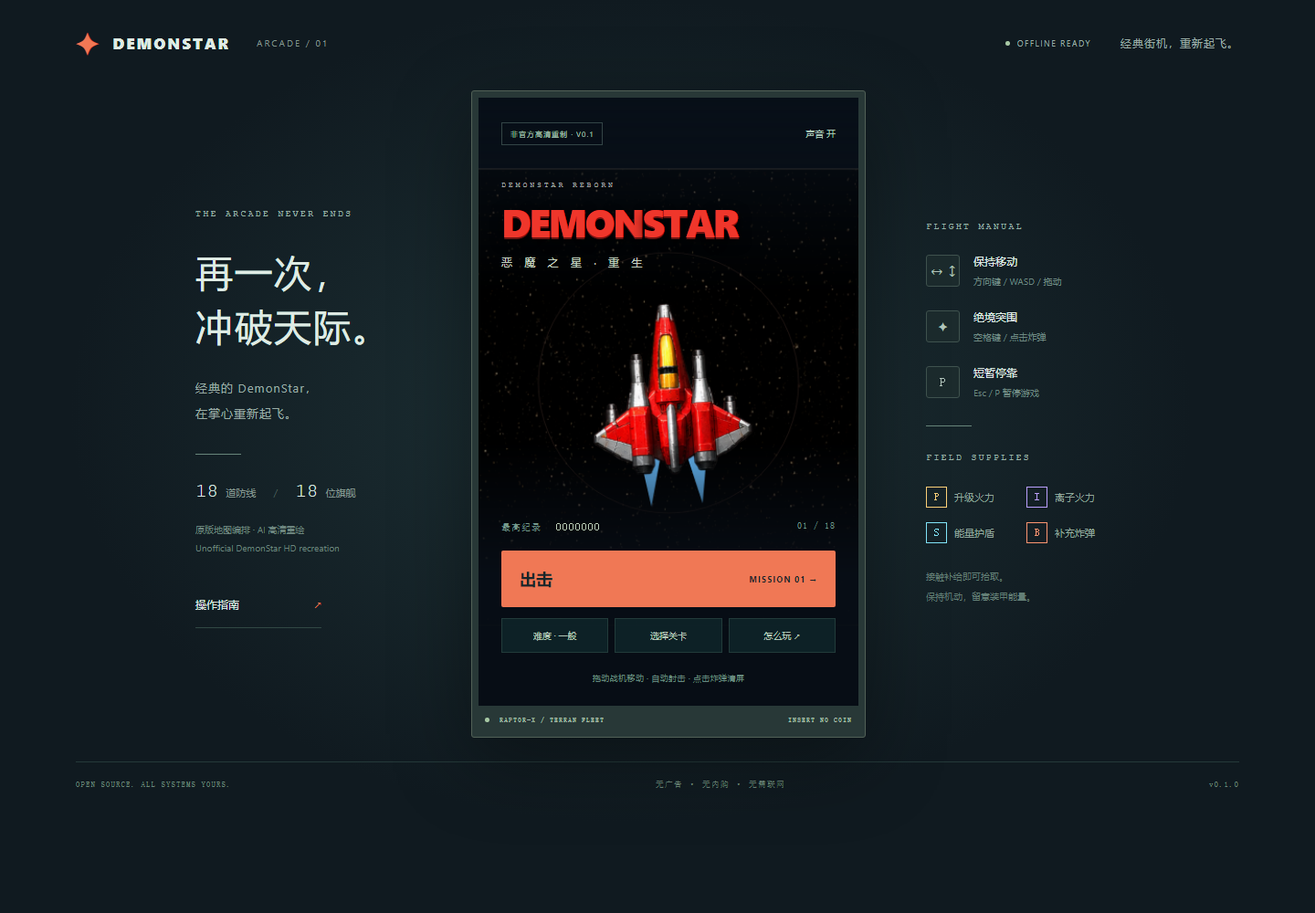
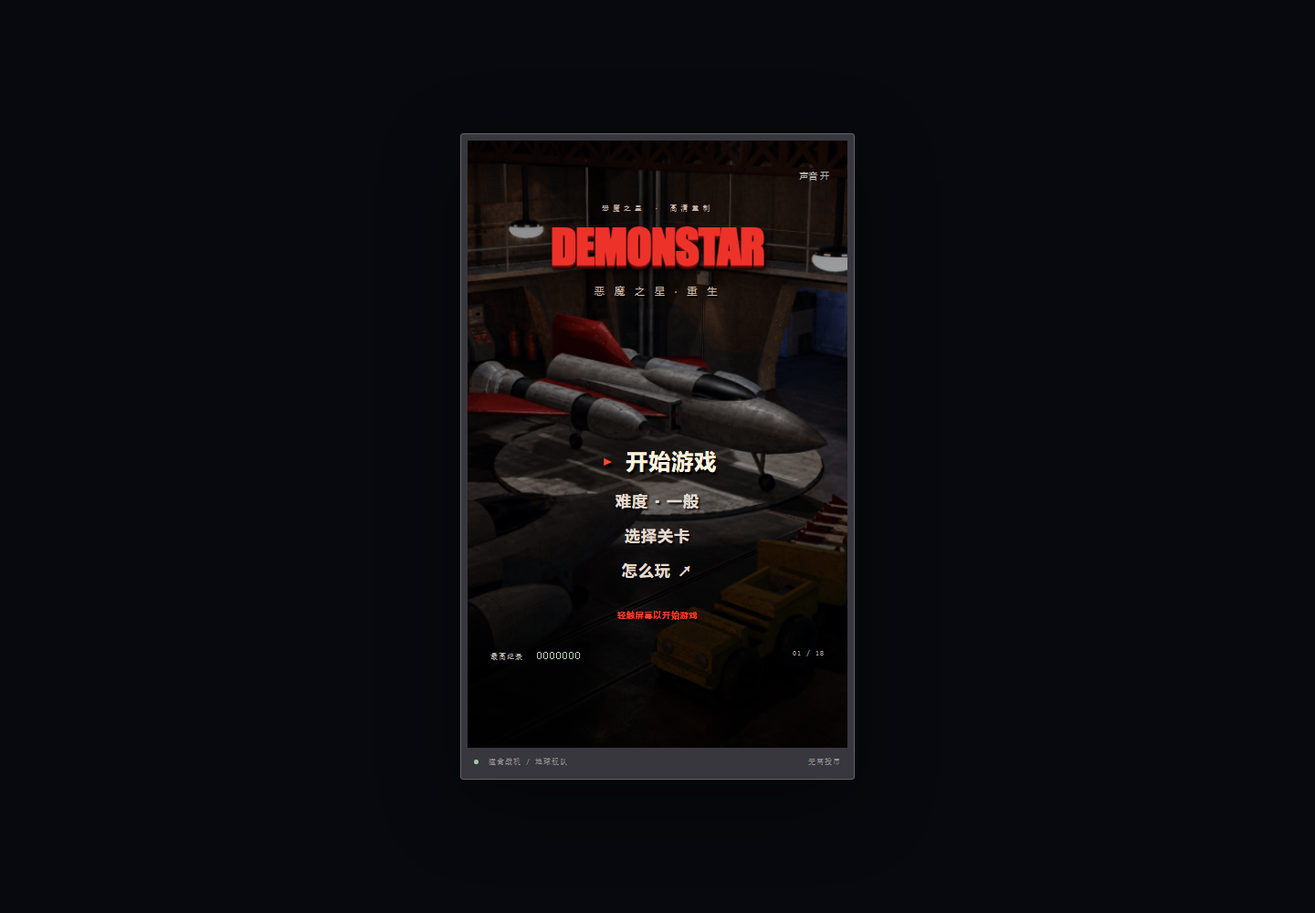
feat: restore Chinese hangar menu and original weapon presentation

diff --git a/web/js/app.js b/web/js/app.js
@@ -4,7 +4,7 @@
   const $ = id => document.getElementById(id);
   const { Game, DIFFICULTIES, STAGES, WEAPONS, W, H, clamp } = StarfallCore;
   const game=new Game(), renderer=new StarfallRenderer($('game')), audio=new StarfallAudio();
-  let saved={best:[0,0,0,0],unlocked:[1,1,1,1],difficulty:1,sound:true,music:true};
+  let saved={best:[0,0,0,0],unlocked:[1,1,1,1],difficulty:1,sound:true,music:false};
   try { const s=JSON.parse(localStorage.getItem('demonstar-reborn-v1')||'null'); if(s && typeof s==='object'){
     saved.best=Array.from({length:4},(_,i)=>Math.max(0,Math.floor(Number(s.best?.[i])||0)));
     saved.unlocked=Array.from({length:4},(_,i)=>clamp(Math.floor(Number(s.unlocked?.[i])||1),1,18));
@@ -14,7 +14,7 @@
   const keys=new Set(); audio.enabled=saved.sound;audio.music=saved.music;
   const persist=()=>{try{localStorage.setItem('demonstar-reborn-v1',JSON.stringify(saved));}catch{}};
   const fmt=n=>String(Math.floor(n)).padStart(7,'0');
-  function menuInfo(){ $('best').textContent=fmt(saved.best[saved.difficulty]);$('difficulty').textContent=`难度 · ${DIFFICULTIES[saved.difficulty].name}`;$('unlock-label').textContent=`${String(saved.unlocked[saved.difficulty]).padStart(2,'0')} / 18`;$('sound').textContent=`声音 ${saved.sound?'开':'关'}`;$('sound').setAttribute('aria-pressed',String(saved.sound));$('start').innerHTML=`出击 <span>MISSION ${String(selectedStage).padStart(2,'0')} →</span>`; }
+  function menuInfo(){ $('best').textContent=fmt(saved.best[saved.difficulty]);$('difficulty').textContent=`难度 · ${DIFFICULTIES[saved.difficulty].name}`;$('unlock-label').textContent=`${String(saved.unlocked[saved.difficulty]).padStart(2,'0')} / 18`;$('sound').textContent=`声音 ${saved.sound?'开':'关'}`;$('sound').setAttribute('aria-pressed',String(saved.sound));$('start').innerHTML=`开始游戏 <span>关卡 ${String(selectedStage).padStart(2,'0')} →</span>`; }
   function saveScore(){if(game.score>saved.best[game.difficulty]){saved.best[game.difficulty]=game.score;persist();}}
   function clearInput(){keys.clear();pointer=null;}
   function toast(text,seconds=2){$('toast').textContent=text;$('toast').hidden=false;toastTime=seconds;}
@@ -26,13 +26,13 @@
     $('dialog').hidden=false;requestAnimationFrame(()=>$('dialog-buttons').querySelector('button')?.focus({preventScroll:true}));
   }
   function resume(){game.resume();$('dialog').hidden=true;previous=0;accumulator=0;clearInput();audio.unlock();}
-  function pause(){if(!game.pause())return;saveScore();dialog('FLIGHT ON HOLD','暂时停靠',`<p>战机已悬停。准备好了就继续。</p><div class="dialog-setting">背景音乐 <button class="secondary" id="music-toggle">${saved.music?'开启':'关闭'}</button></div>`,[['继续飞行',resume],['返回主菜单',()=>dialog('ABANDON MISSION','结束本次飞行？','<p>最高分与已解锁关卡会保留，本次战斗进度将结束。</p>',[['继续飞行',resume],['结束并返回',showMenu,true]]),true]]);$('music-toggle').onclick=()=>{saved.music=!saved.music;audio.music=saved.music;$('music-toggle').textContent=saved.music?'开启':'关闭';persist();};}
+  function pause(){if(!game.pause())return;saveScore();dialog('游戏已暂停','暂时停靠',`<p>战机已悬停。准备好了就继续。</p><div class="dialog-setting">背景音乐 <button class="secondary" id="music-toggle">${saved.music?'开启':'关闭'}</button></div>`,[['继续飞行',resume],['返回主菜单',()=>dialog('返回主菜单','结束本次飞行？','<p>最高分与已解锁关卡会保留，本次战斗进度将结束。</p>',[['继续飞行',resume],['结束并返回',showMenu,true]]),true]]);$('music-toggle').onclick=()=>{saved.music=!saved.music;audio.music=saved.music;$('music-toggle').textContent=saved.music?'开启':'关闭';persist();};}
   function showHelp(){
     dialogReturn=game.phase==='playing'?'playing':game.phase;if(dialogReturn==='playing')game.pause();
-    dialog('FLIGHT MANUAL','飞行指南','<ul class="guide"><li><b>移动</b>　单指拖动战场；电脑使用 WASD 或方向键。战机会自动开火。</li><li><b>炸弹</b>　点击右下角 ✦ 或按空格。清除弹幕并对 Boss 造成伤害。</li><li><b>补给</b>　P 升级火力，I 离子火力，S 护盾，B 炸弹，＋ 增加生命。接触补给拾取。</li><li><b>躲避</b>　避开敌机与弹幕，装甲耗尽会损失生命并重置火力。</li><li><b>暂停</b>　点击 Ⅱ 或按 Esc / P。切到后台会自动暂停。</li></ul><p class="dialog-footer">原作 18 关地图 · 4 档难度 · 离线存档<br>非官方 DemonStar 同人重制 · v0.1.0</p>',[['准备起飞',()=>{if(dialogReturn==='playing')resume();else $('dialog').hidden=true;}]]);
+    dialog('游戏说明','飞行指南','<ul class="guide"><li><b>移动</b>　单指拖动战场；<span class="keyboard-help">电脑使用 WASD 或方向键。</span>战机会自动开火。</li><li><b>炸弹</b>　点击右下角 ✦ <span class="keyboard-help">或按空格。</span>清除弹幕并对 Boss 造成伤害。</li><li><b>补给</b>　P 升级火力，I 离子火力，S 护盾，B 炸弹，＋ 增加生命。接触补给拾取。</li><li><b>躲避</b>　避开敌机与弹幕，装甲耗尽会损失生命并重置火力。</li><li><b>暂停</b>　点击 Ⅱ <span class="keyboard-help">或按 Esc / P。</span>切到后台会自动暂停。</li></ul><p class="dialog-footer">原作 18 关地图 · 4 档难度 · 离线存档<br>非官方 DemonStar 同人重制 · v0.1.0</p>',[['准备起飞',()=>{if(dialogReturn==='playing')resume();else $('dialog').hidden=true;}]]);
   }
   function showMissions(){
-    dialog('CAMPAIGN SELECT','选择出击点',`<div class="mission-grid">${STAGES.map(s=>`<button data-stage="${s.id}" ${s.id>saved.unlocked[saved.difficulty]?'disabled':''}>${String(s.id).padStart(2,'0')}<small>${s.name}</small></button>`).join('')}</div><p class="dialog-footer">通过上一关即可解锁。各难度单独保存进度。</p>`,[['返回机库',()=>{$('dialog').hidden=true;},true]]);
+    dialog('原版战役','选择出击点',`<div class="mission-grid">${STAGES.map(s=>`<button data-stage="${s.id}" ${s.id>saved.unlocked[saved.difficulty]?'disabled':''}>${String(s.id).padStart(2,'0')}<small>${s.name}</small></button>`).join('')}</div><p class="dialog-footer">通过上一关即可解锁。各难度单独保存进度。</p>`,[['返回机库',()=>{$('dialog').hidden=true;},true]]);
     document.querySelectorAll('[data-stage]').forEach(b=>b.onclick=()=>{selectedStage=Number(b.dataset.stage);$('dialog').hidden=true;menuInfo();});
   }
   function results(){
@@ -42,13 +42,13 @@
     const content=`<div class="result-score">${fmt(game.score)}</div><div class="stat-row">击落敌机<b>${game.kills}</b></div><div class="stat-row">命中率<b>${accuracy}%</b></div><div class="stat-row">飞行时间<b>${Math.floor(game.totalTime/60)}:${String(Math.floor(game.totalTime%60)).padStart(2,'0')}</b></div><div class="stat-row">当前关卡<b>${game.stage.id} / 18</b></div>`;
     const actions=game.phase==='cleared'?[['下一关 →',()=>{game.nextStage();$('dialog').hidden=true;lastPhase='playing';updateHud();}]]:[['再次出击',()=>start(game.phase==='victory'?1:game.stage.id)]];
     actions.push(['返回机库',showMenu,true]);
-    dialog(won?'MISSION COMPLETE':'FLIGHT REPORT',game.phase==='victory'?'星海已重获自由':won?'防线已突破':'任务结束',content,actions);
+    dialog(won?'任务完成':'战斗记录',game.phase==='victory'?'星海已重获自由':won?'防线已突破':'任务结束',content,actions);
   }
   function updateHud(){
     if(!game.player)return;
-    const p=game.player;$('score').textContent=fmt(game.score);$('lives').textContent='◆ '.repeat(p.lives).trim();$('lives').setAttribute('aria-label',`剩余 ${p.lives} 条生命`);$('stage-label').textContent=`MISSION ${String(game.stage.id).padStart(2,'0')}`;
-    $('weapon').textContent=`${WEAPONS[p.weapon]} · LV.${p.power}`;$('shield-label').textContent=`装甲 ${Math.ceil(p.energy)} / ${p.maxEnergy}${p.shield>0?' · 护盾':''}`;$('bomb-count').textContent=String(p.bombs).padStart(2,'0');$('bomb').disabled=p.bombs<=0;
-    $('progress').style.width=`${Math.min(100,game.elapsed/game.stage.duration*100)}%`;$('combo').textContent=game.combo>=5?`${game.combo} CHAIN · ×${1+Math.floor(game.combo/10)}`:'';
+    const p=game.player;$('score').textContent=fmt(game.score);$('lives').textContent='◆ '.repeat(p.lives).trim();$('lives').setAttribute('aria-label',`剩余 ${p.lives} 条生命`);$('stage-label').textContent=`关卡 ${String(game.stage.id).padStart(2,'0')}`;
+    $('weapon').textContent=`${WEAPONS[p.weapon]} · ${p.power} 级`;$('shield-label').textContent=`装甲 ${Math.ceil(p.energy)} / ${p.maxEnergy}${p.shield>0?' · 护盾':''}`;$('bomb-count').textContent=String(p.bombs).padStart(2,'0');$('bomb').disabled=p.bombs<=0;
+    $('progress').style.width=`${Math.min(100,game.elapsed/game.stage.duration*100)}%`;$('combo').textContent=game.combo>=5?`${game.combo} 连击 · ×${1+Math.floor(game.combo/10)}`:'';
     $('boss-hud').hidden=!game.boss;if(game.boss){$('boss-name').textContent=game.stage.boss;$('boss-health').style.width=`${Math.max(0,game.boss.hp/game.boss.maxHp*100)}%`;}
   }
   function frame(t){
@@ -60,8 +60,8 @@
       audio.update(dt,game.phase==='playing');
     }else accumulator=0;
     for(const e of game.drainEvents()){
-      audio.effect(e.type);
-      if(e.type==='stage')toast(`MISSION ${String(e.stage).padStart(2,'0')} · ${game.stage.name}`);
+      audio.effect(e.type,e);
+      if(e.type==='stage')toast(`进入第 ${String(e.stage).padStart(2,'0')} 关`);
       if(e.type==='boss')toast(`警报 · ${e.name}`,2.8);
       if(e.type==='pickup')toast({power:'火力升级',weapon:'质子武器',ion:'离子炮',plasma:'等离子炮',magnetic:'磁力脉冲',energy:'装甲修复',full:'火力全满',shield:'能量护盾',bomb:'超级炸弹',scatter:'散射炸弹',mega:'超级脉冲',missile:'导弹补给',homing:'追踪导弹',side:'侧向火力',rear:'后向火力',medal:'勋章 +1000',life:'备用战机 +1'}[e.item]||'获得补给',1);
     }
@@ -78,10 +78,12 @@
   });
   $('screen').addEventListener('pointermove',e=>{if(!pointer||pointer.id!==e.pointerId||game.phase!=='playing')return;const rect=$('screen').getBoundingClientRect();game.move((e.clientX-pointer.x)*W/rect.width,(e.clientY-pointer.y)*640/rect.height);pointer.x=e.clientX;pointer.y=e.clientY;e.preventDefault();});
   for(const event of ['pointerup','pointercancel','lostpointercapture'])$('screen').addEventListener(event,e=>{if(pointer?.id===e.pointerId)pointer=null;});
+  $('screen').addEventListener('pointerup',e=>{if(game.phase==='menu'&&$('dialog').hidden&&!$('menu').hidden&&!e.target.closest('button'))start();});
   window.addEventListener('keydown',e=>{
     const key=e.key.length===1?e.key.toLowerCase():e.key;
     if(['ArrowLeft','ArrowRight','ArrowUp','ArrowDown',' '].includes(key)&&game.phase==='playing')e.preventDefault();
     if(e.repeat)return;
+    if(key==='Enter'&&game.phase==='menu'&&$('dialog').hidden){e.preventDefault();start();return;}
     if(key==='Escape'||key==='p'){if(game.phase==='playing')pause();else if(game.phase==='paused')resume();else if(!$('dialog').hidden)$('dialog').hidden=true;return;}
     if(key===' '&&game.phase==='playing'){game.useBomb();return;}keys.add(key);
   });
@@ -90,5 +92,6 @@
   document.addEventListener('visibilitychange',()=>{if(document.hidden)background();else previous=0;});window.addEventListener('blur',background);
   window.addEventListener('pagehide',()=>{saveScore();background();});
   globalThis.StarfallApp={game,background,back:()=>{if(game.phase==='playing')pause();else if(game.phase==='paused')resume();else if(!$('dialog').hidden)$('dialog').hidden=true;},start,showMenu,renderer};
+  document.addEventListener('click',e=>{if(e.target.closest('button')&&saved.sound){audio.unlock();audio.effect('menu');}});
   menuInfo();requestAnimationFrame(frame);
 })();

diff --git a/web/index.html b/web/index.html
@@ -9,34 +9,35 @@
   <link rel="icon" type="image/svg+xml" href="icon.svg">
   <link rel="stylesheet" href="style.css">
   <link rel="stylesheet" href="remaster.css">
+  <link rel="stylesheet" href="classic-menu.css">
 </head>
 <body>
-  <div class="desktop-header"><a class="wordmark" href="./"><span class="mark">✦</span> DEMONSTAR <span class="edition">ARCADE / 01</span></a><span class="header-note"><i></i> OFFLINE READY <span>经典街机，重新起飞。</span></span></div>
+  <div class="desktop-header"><a class="wordmark" href="./"><span class="mark">✦</span> DEMONSTAR <span class="edition">街机复刻 / 01</span></a><span class="header-note"><i></i> 离线就绪 <span>经典街机，重新起飞。</span></span></div>
   <main class="layout">
-    <aside class="intro"><p class="eyebrow">THE ARCADE NEVER ENDS</p><h1>再一次，<br>冲破天际。</h1><p class="intro-copy">经典的 DemonStar，<br>在掌心重新起飞。</p><div class="intro-line"></div><p class="spec"><b>18</b> 道防线 <span>／</span> <b>18</b> 位旗舰</p><p class="small">原版地图编排 · AI 高清重绘<br>Unofficial DemonStar HD recreation</p><button class="text-button" id="desktop-help">操作指南 <span>↗</span></button></aside>
+    <aside class="intro"><p class="eyebrow">经典从未落幕</p><h1>再一次，<br>冲破天际。</h1><p class="intro-copy">经典的 DemonStar，<br>在掌心重新起飞。</p><div class="intro-line"></div><p class="spec"><b>18</b> 道防线 <span>／</span> <b>18</b> 位旗舰</p><p class="small">原版地图编排 · AI 高清重绘<br>非官方恶魔之星高清重制</p><button class="text-button" id="desktop-help">操作指南 <span>↗</span></button></aside>
     <section class="cabinet" aria-label="恶魔之星重生游戏">
       <div class="screen" id="screen">
         <canvas id="game" aria-label="飞行战场，拖动移动战机" role="img"></canvas>
         <div id="hud" class="hud" hidden>
-          <div class="hud-top"><div><span class="tiny">SCORE</span><strong id="score">0000000</strong></div><div class="hud-center"><span id="stage-label">MISSION 01</span><span id="lives" aria-label="剩余生命">◆ ◆ ◆</span></div><button id="pause" class="icon-button" aria-label="暂停游戏">Ⅱ</button></div>
+          <div class="hud-top"><div><span class="tiny">得分</span><strong id="score">0000000</strong></div><div class="hud-center"><span id="stage-label">关卡 01</span><span id="lives" aria-label="剩余生命">◆ ◆ ◆</span></div><button id="pause" class="icon-button" aria-label="暂停游戏">Ⅱ</button></div>
           <div class="stage-track"><div id="progress"></div></div>
           <div id="boss-hud" hidden><span id="boss-name">铁翼守卫</span><div class="boss-track"><div id="boss-health"></div></div></div>
           <span id="combo" class="combo"></span>
         </div>
         <div id="menu" class="menu overlay">
           <div class="menu-top"><span class="pill">非官方高清重制 · V0.1</span><button id="sound" class="sound-button" aria-label="切换声音" aria-pressed="true">声音 开</button></div>
-          <div class="title"><span class="eyebrow">DEMONSTAR REBORN</span><h2>DEMON<span>STAR</span></h2><p>恶 魔 之 星 · 重 生</p></div>
-          <div class="menu-bottom"><div class="record"><span>最高纪录 <b id="best">0000000</b></span><span id="unlock-label">01 / 18</span></div><button id="start" class="primary">出击 <span>LAUNCH MISSION →</span></button><div class="menu-options"><button id="difficulty">难度 · 经典</button><button id="missions">选择关卡</button><button id="help">怎么玩 ↗</button></div><p class="menu-hint">拖动战机移动 · 自动射击 · 点击炸弹清屏</p></div>
+          <div class="title"><span class="eyebrow">恶魔之星 · 高清重制</span><h2>DEMON<span>STAR</span></h2><p>恶 魔 之 星 · 重 生</p></div>
+          <div class="menu-bottom"><div class="record"><span>最高纪录 <b id="best">0000000</b></span><span id="unlock-label">01 / 18</span></div><button id="start" class="primary">出击 <span>开始任务 →</span></button><div class="menu-options"><button id="difficulty">难度 · 经典</button><button id="missions">选择关卡</button><button id="help">怎么玩 ↗</button></div><p class="menu-hint">轻触屏幕以开始游戏</p></div>
         </div>
-        <div id="controls" class="controls" hidden><div><span class="tiny">WEAPON SYSTEM</span><strong id="weapon">脉冲炮 · LV.1</strong><small id="shield-label">核心已就绪</small></div><button id="bomb" aria-label="释放炸弹"><span class="bomb-symbol">✦</span><span>炸弹 <b id="bomb-count">03</b></span></button></div>
+        <div id="controls" class="controls" hidden><div><span class="tiny">武器系统</span><strong id="weapon">质子激光 · 1 级</strong><small id="shield-label">核心已就绪</small></div><button id="bomb" aria-label="释放炸弹"><span class="bomb-symbol">✦</span><span>炸弹 <b id="bomb-count">03</b></span></button></div>
         <div id="toast" class="toast" role="status" aria-live="polite" hidden></div>
         <section id="dialog" class="dialog overlay" aria-modal="true" role="dialog" aria-labelledby="dialog-title" hidden><div class="dialog-card"><p id="dialog-tag" class="eyebrow"></p><h2 id="dialog-title"></h2><div id="dialog-content"></div><div id="dialog-buttons"></div></div></section>
       </div>
-      <div class="cabinet-label"><span><i></i> RAPTOR-X / TERRAN FLEET</span><span>INSERT NO COIN</span></div>
+      <div class="cabinet-label"><span><i></i> 猛禽战机 / 地球舰队</span><span>无需投币</span></div>
     </section>
-    <aside class="telemetry"><p class="eyebrow">FLIGHT MANUAL</p><div class="manual-row"><kbd>↔ ↕</kbd><div><b>保持移动</b><span>方向键 / WASD / 拖动</span></div></div><div class="manual-row"><kbd>✦</kbd><div><b>绝境突围</b><span>空格键 / 点击炸弹</span></div></div><div class="manual-row"><kbd>P</kbd><div><b>短暂停靠</b><span>Esc / P 暂停游戏</span></div></div><div class="intro-line"></div><p class="eyebrow">FIELD SUPPLIES</p><div class="supply"><b class="gold">P</b><span>升级火力</span><b class="purple" >I</b><span>离子火力</span><b class="cyan">S</b><span>能量护盾</span><b class="orange">B</b><span>补充炸弹</span></div><p class="aside-note">接触补给即可拾取。<br>保持机动，留意装甲能量。</p></aside>
+    <aside class="telemetry"><p class="eyebrow">操作说明</p><div class="manual-row"><kbd>↔ ↕</kbd><div><b>保持移动</b><span>方向键 / WASD / 拖动</span></div></div><div class="manual-row"><kbd>✦</kbd><div><b>绝境突围</b><span>空格键 / 点击炸弹</span></div></div><div class="manual-row"><kbd>P</kbd><div><b>短暂停靠</b><span>Esc / P 暂停游戏</span></div></div><div class="intro-line"></div><p class="eyebrow">战场补给</p><div class="supply"><b class="gold">P</b><span>升级火力</span><b class="purple" >I</b><span>离子火力</span><b class="cyan">S</b><span>能量护盾</span><b class="orange">B</b><span>补充炸弹</span></div><p class="aside-note">接触补给即可拾取。<br>保持机动，留意装甲能量。</p></aside>
   </main>
-  <footer class="desktop-footer"><span>OPEN SOURCE. ALL SYSTEMS YOURS.</span><span>无广告 · 无内购 · 无需联网</span><span>v0.1.0</span></footer>
+  <footer class="desktop-footer"><span>游戏代码开放，欢迎共同完善。</span><span>无广告 · 无内购 · 无需联网</span><span>v0.1.0</span></footer>
   <script src="js/compat.js"></script><script src="js/campaign.js"></script><script src="js/original-rules.js"></script><script src="js/render-hd.js"></script><script src="js/audio.js"></script><script src="js/app.js"></script>
 </body>
 </html>

diff --git a/web/js/render-hd.js b/web/js/render-hd.js
@@ -4,11 +4,12 @@
   const VIEW_H=640,TOP=75;
   const load=src=>{const im=new Image();im.src=src;return im;};
   class Renderer {
-    constructor(canvas){this.canvas=canvas;this.c=canvas.getContext('2d',{alpha:false});this.time=0;this.ships=load('assets/ships-hd.png');this.bosses=load('assets/bosses-07-18-hd.png');this.terrain=[load('assets/terrain-01-06-hd.png'),load('assets/terrain-07-12-hd.png'),load('assets/terrain-13-18-hd.png')];const dpr=Math.min(devicePixelRatio||1,2);canvas.width=W*dpr;canvas.height=VIEW_H*dpr;this.c.scale(dpr,dpr);const r=rng(654);this.stars=Array.from({length:100},()=>[r()*W,r()*H,r()*1.3+.3]);}
+    constructor(canvas){this.canvas=canvas;this.c=canvas.getContext('2d',{alpha:false});this.time=0;this.ships=load('assets/ships-hd.png');this.bosses=load('assets/bosses-07-18-hd.png');this.hangar=load('assets/hangar-hd.png');this.mission1=load('assets/mission1-hd.png');this.weapons=load('assets/weapons-hd.png');this.terrain=[load('assets/terrain-01-06-hd.png'),load('assets/terrain-07-12-hd.png'),load('assets/terrain-13-18-hd.png')];this.mission1Names=['S_ENEMY14','S_ENEMY20','S_ENEMY21','S_ENEMY34A','S_ASTER1A','S_ASTER2A','S_ASTER3A','S_ENBON1','S_ENBON3','S_SPTNKRA','S_ENEMY22','S_ENEMY28A','S_PIPE1','S_PIPE2','S_PIPE3','S_BHOLE1A'];const dpr=Math.min(devicePixelRatio||1,2);canvas.width=W*dpr;canvas.height=VIEW_H*dpr;this.c.scale(dpr,dpr);const r=rng(654);this.stars=Array.from({length:100},()=>[r()*W,r()*H,r()*1.3+.3]);}
     cell(image,index,cols,rows,x,y,w,h,rotation=0){if(!image.complete||!image.naturalWidth)return false;const c=this.c,cw=image.naturalWidth/cols,ch=image.naturalHeight/rows;c.save();c.translate(x,y);if(rotation)c.rotate(rotation);c.drawImage(image,index%cols*cw,Math.floor(index/cols)*ch,cw,ch,-w/2,-h/2,w,h);c.restore();return true;}
     terrainDraw(stage,scroll){const c=this.c,idx=stage-1,im=this.terrain[Math.floor(idx/6)],cell=idx%6;if(im?.complete&&im.naturalWidth){const cw=im.naturalWidth/3,ch=im.naturalHeight/2,sy=Math.floor(cell/3)*ch,sx=cell%3*cw,y=scroll%H;c.drawImage(im,sx,sy,cw,ch,0,y-H,W,H);c.drawImage(im,sx,sy,cw,ch,0,y,W,H);}else{c.fillStyle='#010205';c.fillRect(0,0,W,H);for(const [x,y,s] of this.stars){c.fillStyle='#9aa293';c.globalAlpha=s*.4;c.fillRect(x,(y+scroll)%H,s,s);}c.globalAlpha=1;}}
     shipCell(name){if(name.startsWith('S_ENEMY1A'))return 2;if(name==='S_ENEMY2')return 3;if(name==='S_ENEMY4')return 4;if(name==='S_ENEMY10')return 5;if(name==='S_ENEMY18')return 6;if(name==='S_ENEMY21')return 7;if(name.startsWith('G_TNK')||name.includes('TURRET')||name.includes('TUR1'))return 14;if(name.includes('ROTA')||name.includes('ROTB'))return 15;const n=Number((name.match(/(?:ENEMY|SHIP)(\d+)/)||[])[1]||1);return [2,3,4,5,6,7][n%6];}
     object(e){const c=this.c,d=e.def,w=d.width,h=d.height;
+      const originalCell=this.mission1Names.indexOf(d.sprite);if(originalCell>=0&&this.cell(this.mission1,originalCell,4,4,e.x,e.y,w*1.1,h*1.1))return;
       if(e.scenery){this.scenery(e);return;}
       c.save();if(e.hit>0){c.globalAlpha=.65;}
       if(e.boss){const stage=Number(d.sprite.match(/^S2_BOSS(\d+)/)?.[1]||0);if(stage)this.cell(this.bosses,stage-1,4,3,e.x,e.y,w*1.13,h*1.13);else{const b=Number(d.sprite.match(/^S_BOSS(\d+)/)?.[1]||1);this.cell(this.ships,7+b,4,4,e.x,e.y,w*1.12,h*1.12);}}
@@ -20,13 +21,20 @@
     scenery(e){const c=this.c,d=e.def,x=e.x-d.width/2,y=e.y-d.height/2,w=d.width,h=d.height,n=d.sprite;if(n.includes('PIPE')){c.fillStyle='#434044';c.fillRect(x,y,w,h);c.fillStyle='#777278';c.fillRect(x+2,y+2,Math.max(2,w-4),Math.max(2,h-4));c.fillStyle='#35323a';for(let i=0;i<h;i+=8)c.fillRect(x,y+i,w,2);}else if(n.includes('HOLE')){const g=c.createRadialGradient(e.x,e.y,1,e.x,e.y,Math.max(w,h)/2);g.addColorStop(0,'#000');g.addColorStop(.6,'#05050a');g.addColorStop(.84,'#373467');g.addColorStop(1,'#08040b00');c.fillStyle=g;c.fillRect(x,y,w,h);}else if(n.includes('STREET')||n.includes('RUNWAY')||n.includes('RAIL')){c.fillStyle='#41444a';c.fillRect(x,y,w,h);c.strokeStyle='#717171';c.strokeRect(x+1,y+1,w-2,h-2);c.fillStyle='#a6a08f';for(let k=4;k<h;k+=17)c.fillRect(e.x-2,y+k,4,8);}else{c.fillStyle='#474a48';c.fillRect(x,y,w,h);c.fillStyle='#626461';c.fillRect(x+2,y+2,Math.max(2,w-5),Math.max(2,h-5));c.fillStyle='#282d31';c.fillRect(x+5,y+5,Math.max(3,w-12),Math.max(3,h-12));c.fillStyle='#8b8375';c.fillRect(x+8,y+8,Math.max(3,w-18),2);}}
     player(x,y,power,time,scale=1){const c=this.c;const flame=8+Math.sin(time*45)*4;c.fillStyle='#66baf8';c.beginPath();c.moveTo(x-7*scale,y+11*scale);c.lineTo(x-5*scale,y+(17+flame)*scale);c.lineTo(x-2*scale,y+12*scale);c.fill();c.beginPath();c.moveTo(x+2*scale,y+12*scale);c.lineTo(x+5*scale,y+(17+flame)*scale);c.lineTo(x+7*scale,y+11*scale);c.fill();this.cell(this.ships,0,4,4,x,y,39*scale,39*scale);}
     draw(game,dt){const c=this.c;if(game.phase!=='paused')this.time+=dt;c.fillStyle='#090e16';c.fillRect(0,0,W,VIEW_H);const active=game.phase!=='menu';
+      if(!active&&this.hangar.complete&&this.hangar.naturalWidth){const scale=Math.max(W/this.hangar.naturalWidth,VIEW_H/this.hangar.naturalHeight),w=this.hangar.naturalWidth*scale,h=this.hangar.naturalHeight*scale;c.drawImage(this.hangar,(W-w)/2,(VIEW_H-h)/2,w,h);c.fillStyle='#02030a55';c.fillRect(0,0,W,VIEW_H);return;}
       c.save();c.translate(0,TOP);c.beginPath();c.rect(0,0,W,H);c.clip();this.terrainDraw(game.stage?.id||1,active?game.scroll:this.time*25);
       if(active){
         if(game.shake)c.translate(Math.sin(this.time*111)*game.shake,Math.cos(this.time*98)*game.shake*.5);
         for(const e of game.enemies.filter(e=>e.scenery||e.ground))this.object(e);
         for(const e of game.enemies.filter(e=>!e.scenery&&!e.ground))this.object(e);
         for(const item of game.pickups){const colors={weapon:'#ff573f',ion:'#57ff83',plasma:'#7899ff',magnetic:'#da77ef',energy:'#54e2dc',shield:'#82baff',bomb:'#ffbb6a',full:'#fff0a0',missile:'#dda677',homing:'#dedacd',side:'#fc99ba',rear:'#9ac5f5',scatter:'#ffaa68',mega:'#d5b2ff',medal:'#ffd860',life:'#ee6262'};const color=colors[item.type]||'#efcb5b';c.fillStyle='#11161b';c.beginPath();c.arc(item.x,item.y,11,0,Math.PI*2);c.fill();c.strokeStyle=color;c.lineWidth=2;c.stroke();c.fillStyle=color;c.font='bold 12px monospace';c.textAlign='center';c.fillText({weapon:'P',ion:'I',plasma:'P',energy:'E',shield:'S',bomb:'B',full:'F',life:'+'}[item.type]||'✦',item.x,item.y+4);}
-        for(const b of game.bullets){const color=b.friendly?['#ff684d','#75ff8b','#85adff','#e49dfc'][b.style%4]:['#f59941','#ffc260','#f4866e'][b.style%3];c.fillStyle=color;if(b.friendly){c.fillRect(b.x-2,b.y-7,4,b.style===2?14:9);c.fillStyle='#fff7d7';c.fillRect(b.x-1,b.y-7,2,4);}else{c.beginPath();c.arc(b.x,b.y,3.5,0,Math.PI*2);c.fill();c.fillStyle='#fff1bd';c.fillRect(b.x-1,b.y-1,2,2);}}
+        for(const b of game.bullets){
+          const sprite=b.missile?(b.homing?9:8):b.friendly?[0,3,4,7][b.style%4]:b.style===1?11:10;
+          const width=b.missile?8:b.friendly?(b.style===3?12:7):9,height=b.missile?17:b.friendly?(b.style===2?24:b.style===3?12:18):9;
+          const angle=b.friendly||b.missile?Math.atan2(b.vx,-b.vy):0;
+          if(this.cell(this.weapons,sprite,4,4,b.x,b.y,width,height,angle))continue;
+          c.fillStyle=b.friendly?['#ffd85d','#80bdff','#ff99ac','#ffad39'][b.style%4]:'#ffa958';c.fillRect(b.x-2,b.y-5,4,8);
+        }
         const p=game.player;if(game.phase!=='gameover'&&(p.invincible<=0||Math.floor(this.time*14)%2===0))this.player(p.x,p.y,p.power,this.time);
         if(p.shield>0){c.strokeStyle='#83d8ffb0';c.lineWidth=2;c.beginPath();c.arc(p.x,p.y,23,0,Math.PI*2);c.stroke();}
         for(const v of game.particles){c.globalAlpha=Math.max(0,v.life/v.maxLife);c.fillStyle=v.color;c.fillRect(v.x,v.y,v.size,v.size);}c.globalAlpha=1;

diff --git a/web/js/audio.js b/web/js/audio.js
@@ -1,20 +1,51 @@
 /* SPDX-License-Identifier: MIT. All tones and music are synthesized here. */
 (() => {
   class AudioEngine {
-    constructor(){this.enabled=true;this.music=true;this.ctx=null;this.clock=0;this.step=0;this.lastShot=0;}
+    constructor(){this.enabled=true;this.music=false;this.ctx=null;this.clock=0;this.step=0;this.lastShot=0;this.lastExplosion=0;this.buffers={};this.voices=0;}
     unlock(){if(!this.ctx){try{this.ctx=new (window.AudioContext||window.webkitAudioContext)();this.master=this.ctx.createGain();this.master.gain.value=.16;this.master.connect(this.ctx.destination);}catch{this.enabled=false;}}if(this.ctx?.state==='suspended')this.ctx.resume().catch(()=>{});}
     tone(freq,duration=.1,type='triangle',volume=.25,end=freq){
       if(!this.enabled||!this.ctx||this.ctx.state!=='running')return;
       const t=this.ctx.currentTime,o=this.ctx.createOscillator(),g=this.ctx.createGain();o.type=type;o.frequency.setValueAtTime(freq,t);o.frequency.exponentialRampToValueAtTime(Math.max(20,end),t+duration);g.gain.setValueAtTime(volume,t);g.gain.exponentialRampToValueAtTime(.001,t+duration);o.connect(g);g.connect(this.master);o.start(t);o.stop(t+duration);o.onended=()=>{o.disconnect();g.disconnect();};
     }
-    effect(type){
-      if(type==='shot'){const now=this.ctx?.currentTime||0;if(now-this.lastShot<.09)return;this.lastShot=now;this.tone(1050,.045,'triangle',.08,420);}
-      if(type==='explosion')this.tone(90,.2,'sawtooth',.22,25);
-      if(type==='pickup'){this.tone(659,.13,'sine',.4,1318);}
-      if(type==='bomb'){this.tone(190,.8,'sawtooth',.6,22);this.tone(45,.75,'sine',.7,25);}
-      if(type==='hit')this.tone(220,.45,'sawtooth',.4,35);
-      if(type==='boss')this.tone(110,.7,'square',.17,82);
-      if(type==='cleared'||type==='victory'){this.tone(523,.6,'triangle',.5,1046);}
+    makeBuffer(kind){
+      // Durations and broad spectral envelopes measured from local reference WAVs.
+      // New deterministic noise/oscillator samples, never copied original PCM.
+      const durations={proton:.262,ion:.233,plasma:.233,magnetic:.35,explosion:2.249,bomb:1.091,hit:1.094,pickup:.17,menu:.455};
+      const duration=durations[kind]||.25,rate=22050,buffer=this.ctx.createBuffer(1,Math.ceil(rate*duration),rate),data=buffer.getChannelData(0);
+      let seed=kind.split('').reduce((n,c)=>n+c.charCodeAt(0),97),low=0,phase=0;
+      const noise=()=>{seed=(Math.imul(seed,1664525)+1013904223)>>>0;return seed/2147483648-1;};
+      for(let i=0;i<data.length;i++){
+        const t=i/rate,u=t/duration,n=noise();let v=0,env=0;
+        if(['proton','ion','plasma','magnetic'].includes(kind)){
+          const f=kind==='proton'?180-95*u:kind==='ion'?340-210*u:kind==='plasma'?210+120*u:460-260*u;
+          phase+=Math.PI*2*f/rate;low+=.38*(n-low);
+          const pulse=Math.sin(phase)+.35*Math.sin(phase*3);env=Math.exp(-u*(kind==='plasma'?3.2:5.5))*Math.min(1,t/.0015);
+          v=(low*.95+pulse*.25)*(kind==='ion'?.7+.3*Math.sin(t*1250):1)*env;
+        }else if(kind==='explosion'||kind==='bomb'||kind==='hit'){
+          const cutoff=(kind==='hit'?2300:1700)*(1-u)+180,a=1-Math.exp(-2*Math.PI*cutoff/rate);low+=a*(n-low);phase+=Math.PI*2*(115-78*u)/rate;
+          env=Math.pow(1-u,1.6)*Math.min(1,t/.006);v=(low*.85+Math.sin(phase)*.24)*env;
+          if(kind==='bomb')v+=Math.sin(t*2*Math.PI*42)*Math.pow(1-u,2)*.36;
+          if(kind==='hit')v+=(Math.sin(t*2100)+Math.sin(t*2921))*.08*Math.exp(-t*14);
+        }else if(kind==='pickup'){phase+=Math.PI*2*(800+2200*u)/rate;v=(Math.sin(phase)+Math.sin(phase*1.5)*.2)*Math.pow(1-u,2)*.36;}
+        else{low+=.2*(n-low);v=(low*.8+Math.sin(t*1880)*.1)*Math.exp(-t*18);}
+        data[i]=Math.max(-.9,Math.min(.9,v));
+      }
+      this.buffers[kind]=buffer;return buffer;
+    }
+    sample(kind,volume=1){
+      if(!this.enabled||!this.ctx||this.ctx.state!=='running'||this.voices>=28)return;
+      const source=this.ctx.createBufferSource(),gain=this.ctx.createGain();source.buffer=this.buffers[kind]||this.makeBuffer(kind);gain.gain.value=volume;source.connect(gain);gain.connect(this.master);this.voices++;source.onended=()=>{this.voices--;source.disconnect();gain.disconnect();};source.start();
+    }
+    effect(type,event={}){
+      const now=this.ctx?.currentTime||0;
+      if(type==='shot'){if(now-this.lastShot<.055)return;this.lastShot=now;this.sample(['proton','ion','plasma','magnetic'][event.weapon||0],.55);}
+      if(type==='explosion'){if(now-this.lastExplosion<.035)return;this.lastExplosion=now;this.sample('explosion',.65);}
+      if(type==='pickup')this.sample('pickup',1.2);
+      if(type==='bomb')this.sample('bomb',1.7);
+      if(type==='hit')this.sample('hit',1.1);
+      if(type==='menu')this.sample('menu',.8);
+      if(type==='boss'){this.sample('hit',.7);this.tone(80,.8,'sawtooth',.12,48);}
+      if(type==='cleared'||type==='victory'){this.tone(523,.6,'triangle',.4,1046);}
     }
     update(dt,active){if(!active||!this.music||!this.enabled)return;this.clock-=dt;if(this.clock>0)return;this.clock=.19;const notes=[110,110,164.81,130.81,110,196,164.81,130.81,98,98,146.83,123.47,98,164.81,146.83,123.47];const f=notes[this.step++%notes.length];this.tone(f,.16,'triangle',.16);if(this.step%4===0)this.tone(f*4,.27,'sine',.06);}
     suspend(){if(this.ctx?.state==='running')this.ctx.suspend().catch(()=>{});}

diff --git a/web/classic-menu.css b/web/classic-menu.css
@@ -1,0 +1,23 @@
+/* Original hangar composition and compact arcade menu, adapted for touch. */
+body{background:#08090e}
+.desktop-header,.desktop-footer,.intro,.telemetry{display:none}
+.layout{min-height:100vh;min-height:var(--app-height,100vh);padding:14px;align-items:center}
+.cabinet{background:#37373d;border-color:#65626b}
+.cabinet-label{color:#9a9597}
+.menu{padding:23px 20px;background:linear-gradient(#0005,transparent 28%,#0003 60%,#000a)}
+.menu-top{justify-content:flex-end}.menu-top .pill{display:none}.sound-button{color:#b7b0a8;font-size:10px}
+.title{text-align:center;margin-top:7px}
+.title .eyebrow{font-size:8px;letter-spacing:4px;color:#c4b1a5}
+.title h2{font-family:Impact,Haettenschweiler,'Arial Black',sans-serif;font-size:51px;font-weight:900;letter-spacing:-1px;margin:10px 0 9px;color:#ed322a;text-shadow:0 2px #73100d,0 4px #360707,2px 5px 4px #000}
+.title h2 span{color:#ed322a}.title p{color:#c9b7a7;font-size:11px;letter-spacing:4px;text-shadow:1px 2px #000}
+.menu-bottom{position:absolute;top:49%;left:25px;right:25px;text-align:center;margin:0}
+.menu-bottom .record{position:absolute;top:calc(100% + 30px);left:0;right:0;color:#b5aea3;font-size:8px;text-shadow:1px 1px #000}
+.menu-bottom .primary{display:block;background:none;color:#fff3dd;font:bold 24px 'Arial Black','Microsoft YaHei',sans-serif;padding:8px 5px;text-align:center;text-shadow:2px 3px 2px #000;letter-spacing:1px}
+.menu-bottom .primary::before{content:'▸ ';color:#f74c32}.menu-bottom .primary span{display:none}
+.menu-options{display:flex;flex-direction:column;gap:0;align-items:stretch;margin-top:0}
+.menu-options button{display:block;flex:none;background:none;border:0;color:#e3dcd0;font:bold 17px 'Arial Black','Microsoft YaHei',sans-serif;padding:7px 0;letter-spacing:1px;text-shadow:2px 2px 2px #000}
+.menu-options button:hover,.menu-bottom .primary:hover{color:#ff5b3c;filter:none}
+.menu-hint{font:bold 9px Arial,sans-serif;letter-spacing:.8px;color:#f4412c;line-height:1.6;margin:24px 0 0;text-shadow:1px 2px #000}
+.dialog-card{border:2px solid #726b66;background:#161719f5}.dialog .primary{background:#85372e;color:#fff2db}.dialog .eyebrow{color:#b9aca0}
+@media(pointer:coarse){.keyboard-help{display:none}}
+@media(max-width:600px),(max-height:650px){.layout{padding:var(--safe-top) 0 var(--safe-bottom)}.menu{padding:20px 18px}.title{margin-top:5px}.title h2{font-size:48px}.menu-bottom{top:49%;left:20px;right:20px}.menu-options button{font-size:17px;padding:7px 0}.menu-bottom .primary{padding:8px 0}.menu-hint{margin-top:21px}}

diff --git a/tools/github_api.py b/tools/github_api.py
@@ -23,4 +23,3 @@ class GitHub:
             # The GitHub signed storage URL is fetched without any Authorization header.
             url=e.headers['Location']
             with urllib.request.urlopen(url,timeout=120) as response:destination.write_bytes(response.read())
-

diff --git a/docs/ART_ADDITIONS.md b/docs/ART_ADDITIONS.md
@@ -1,0 +1,13 @@
+## 追加素材
+
+### `web/assets/hangar-hd.png`
+
+Use case: style-transfer. Asset type: main-menu background for a faithful HD remake of classic DemonStar 4.04. The provided image is the ORIGINAL game's hangar menu scene and is the authoritative composition reference. Recreate this scene recognizably in crisp high-resolution rendered game art, preserving camera angle, object positions, spaceship design, lighting scheme, and late-1990s industrial sci-fi identity. Portrait 4:5 composition, full scene, no text, no labels, no interface, no logos. In the middle a large gray/silver spacecraft with distinctive red fins and red accents, bulky long tapered central fuselage pointed diagonally toward viewer's lower-right, dark elongated cockpit, two large gray lateral engine pods, deployed landing gear. It rests on a circular gray maintenance turntable / landing pad. Surrounding dark bronze-brown metal hangar walls, a raised rear metal catwalk with thin railings, two bright hanging white work lamps near the upper left/right, a dark-blue open doorway on rear right, a yellow-orange industrial stair platform/service cart with a control console at lower right, and dark curved gray machinery/pipe along bottom left foreground. Preserve the original scene's slightly moody, utilitarian, unglamorous look and original silhouette. Upgrade polygon detail, metal materials, contact shadows and texture sharpness without redesigning the spacecraft, adding modern neon lights, people, or lens flares. The result should instantly look like the original DemonStar hangar rendered in HD. No painterly style; quality prerendered 3D game environment. Keep it dark enough for original-style bright menu text overlay.
+
+### `web/assets/weapons-hd.png`
+
+Use case: style-transfer. Transparent high-resolution weapon/VFX sprite atlas for faithful DemonStar 4.04 remake. The attached 4x4 contact sheet contains ORIGINAL weapon and explosion sprites. Make one square image divided into 4 columns and 4 rows of exactly equal cells, centered separate sprite in each, actual transparent alpha background, no labels, cell dividers or backdrop. Preserve the colors and distinctive shapes in EXACT source order, recreate them as crisp polished 2D game VFX without changing weapon identity. Row1: narrow vertical projectile with rounded white-hot top, pale yellow core fading through yellow into a short burnt-orange tail; extremely thin vertical yellow-white proton tracer with orange tail; TWO parallel short diagonal yellow-orange proton streaks angled up-right, spaced apart like reference; short blue ion bolt, bright pale blue top and darker blue short trailing point. Row2: extremely narrow long vertical pink-red plasma tracer with bright pale pink core; short twin-toothed pink-red plasma bolt with dark red trailing forks; tiny round amber energy pulse with a white-hot center and orange rim; larger circular orange magnetic energy pulse with pale yellow center and subtle concentric orange rings. Row3: small gray missile pointing UP with blue band and blue horizontal fins, yellow exhaust beneath; gray missile pointing UP with red nose and red fins and yellow exhaust; dark metallic spherical hostile projectile with glowing dark-red core; glowing round soft pale-blue hostile orb. Row4: ruby-red four-point starburst plasma flash, long horizontal/vertical thin rays and white-red core; thin vertical pink laser beam segment with pale center and sharp straight edges; small irregular fragmented golden orange ring explosion with transparent center and sparse debris; large circular burst of many separated tiny orange/gold sparks around transparent center, like original destruction effect. Background and empty interiors are transparent. Do NOT make arbitrary neon blue lasers for the yellow or red weapons. No weapons, ships, smoke backgrounds or extra objects. Respect original aspect ratio of each effect, with roomy transparent space around it. Upgraded clarity, not a different design.
+
+## 音效
+
+`web/js/audio.js` synthesizes new samples using deterministic noise and oscillator layers. Local original WAV files were analyzed for duration and broad spectral/decay profiles (proton 0.262s, ion/plasma 0.233s, explosion 2.249s, mega bomb 1.091s). No original PCM is included. Direct auditory comparison is not verified in this environment; this is a measured-envelope reconstruction, not a bit-identical remaster.

diff --git a/README.md b/README.md
@@ -4,13 +4,13 @@
 
 DemonStar 4.04 的非官方移动端高清复刻，目标 **Android 10+ / iOS 12+**。保留红色战机和经典工业科幻风格，参考本地原版素材用 imagegen 重绘，游戏实现代码开放。
 
-An unofficial mobile HD recreation of classic DemonStar 4.04. Android and iOS share an offline Canvas game engine, hosted by Android WebView and iOS UIKit/WKWebView. No ads, accounts, analytics, network permission or in-app purchases.
+首个里程碑仅提供中文界面，后续再加入英文语言包。Android 与 iOS 共用离线 Canvas 游戏内核，分别由系统 WebView 和 UIKit/WKWebView 承载；没有广告、账号、埋点、联网权限或内购。
 
 **当前 M1 是可玩的数据驱动 Alpha，不是已验收的完整 1:1 移植。** 原版 1–18 关优先；19–25 关尚未开发。完整的确认项、推断值与差异见 [还原状态](docs/FIDELITY.md)。
 
 ![Menu](docs/screenshots/menu.png)
 
-## 当前里程碑 / Milestone
+## 当前里程碑
 
 - 导入原版 **18 关、8,368 条放置记录、387 条对象定义**，按稳定 ID 绑定对象；保留血量、速度、分数、路径、炮位和地图原始附加字段。
 - 敌方炮位解释器支持原数据中的延迟、连射、瞄准、角度、弹速、次数；18 位 Boss 使用各自的原始定义和高清外形。
@@ -18,7 +18,7 @@ An unofficial mobile HD recreation of classic DemonStar 4.04. Android and iOS sh
 - 相对拖动、自动射击、炸弹按钮、键盘控制、暂停、切后台自动暂停、离线最高分与关卡解锁。
 - 原作主机、十八关背景和全部 Boss 已有 AI 高清素材；尚未覆盖的敌机和地物仍有近似图形。原版音乐、双人、联网、地图编辑器未包含。
 
-## 安装 / Installation
+## 安装
 
 | 平台 | 最低部署目标 | 交付形式 |
 |---|---|---|
@@ -29,7 +29,7 @@ An unofficial mobile HD recreation of classic DemonStar 4.04. Android and iOS sh
 
 每个完成的里程碑都提交对应源码并发布 APK、IPA 与 `SHA256SUMS.txt`；不覆盖已有版本标签。GitHub Release 与 README 会明确列出实际测试的系统版本和仍未完成的事项。
 
-## 操作 / Controls
+## 操作
 
 | 动作 | 手机 / 平板 | 电脑 |
 |---|---|---|
@@ -40,7 +40,7 @@ An unofficial mobile HD recreation of classic DemonStar 4.04. Android and iOS sh
 
 接触补给拾取，持续躲避弹幕并留意装甲。当前各难度分别保存最高分与解锁进度。
 
-## 构建 / Build
+## 构建
 
 开发需要 Node.js 22+。构建包使用 esbuild 转译至 Safari 12 / Chrome 74，并提供旧 WebKit 触摸、视口布局和 DOM API 回退。
 
@@ -74,7 +74,7 @@ open ios/DemonStar.xcodeproj
 
 在 Xcode 选择自己的 Team 后真机安装。无 Mac 可使用 [iOS CI](https://github.com/Hashiao/DemonStar-Reborn/actions/workflows/ios.yml)：在 macOS 编译 ARM64 未签名 IPA，复用已安装的 iPhone/iPad 模拟器，记录实际系统和 WKWebView 探针结果。不会把模拟器包改名冒充 IPA。
 
-## 测试 / Verification
+## 测试
 
 当前本地：9 项引擎/原数据/炮位/18 关 Boss 回归通过；桌面、390×844 触屏及旧 API 回退浏览器检查通过；Android Debug 构建、Debug/Release Lint 通过。Release 安装验证与 Apple CI 结果将在本次里程碑发布前补齐。
 

diff --git a/docs/ART.md b/docs/ART.md
@@ -30,3 +30,4 @@ Use case: style-transfer. Production HD scrolling background atlas for faithful 
 
 Use case: style-transfer. Production game sprite atlas, faithful high-definition reconstruction of DemonStar classic mission01 objects. Input image is the original 4x4 sprite contact sheet; preserve each sprite's shape, colors and details, redraw with crisp realistic pre-rendered metal/rock detail. Output ONE square 4-column x 4-row atlas, exactly equal cells, actual transparent alpha background throughout, no labels, grid, UI or cast shadows. All top-down orthographic like original. Each object centered in its own cell with consistent safe margins. Row1: asymmetrical gray armored heavy fighter with TWO upper silver engine tubes, small left red circular detail, long right-hand downward-pointing nose/cannon; tiny gray silver thin X-wing drone with a narrow blue canopy and pointed dark lower nose; compact square silver fighter with blue central canopy and red wide horizontal side stripe; slender silver fuselage with FOUR dark-red swept triangular wings resembling a butterfly. Row2: long narrow irregular dark gray rocky asteroid with pitted lumpy surface; small roughly spherical light-gray cratered asteroid, lit upper-right dark lower-left; medium irregular rounded dark gray asteroid with a brighter rocky patch upper-right; industrial yellow rectangular cargo pod with silver cylinders around its sides and black lower section, match original bonus pod exactly. Row3: identical cargo pod in orange-red paint instead of yellow; tall vertical gray cylindrical armored fuel tanker with rounded cap and tapered black bottom, narrow vertical panel lines; broad silver oval twin-engine fighter with red side bars, a dark central circular cockpit and tiny bright lower prongs; slender dark metallic long-nose fighter with two separate long silver side engine tubes and small red horizontal support wings. Row4: two THIN polished metal diagonal cylindrical tubes crossing into a large X, mostly empty transparent space; shorter pair of thin diagonal silver tubes meeting into a V with only a short crossing at its bottom point, shape EXACTLY reference14; pair of thin short tubes crossing into a small X, matching reference15; a dark cobalt-blue swirling circular warp portal rim with a completely black center, no text (do not retain WARP lettering). No perspective, no extra wings, no white/black background, no flames or particles. Need strong exact silhouette fidelity and recognizability at game scale. Industrial 1990s red/silver visual language.
 
+菜单与武器新增提示词、音效重建方式见 [补充记录](ART_ADDITIONS.md)。

diff --git a/AGENTS.md b/AGENTS.md
@@ -10,3 +10,5 @@
 - 参考 `K:\aida64-diskmark\src\README.md` 和 `tools/publish-release.py` 的发布方式，不修改 BenchBridge。
 - `.local`、签名材料、凭据、参考原图与原始游戏目录必须忽略。发布前检查待提交文件。
 - 未经验证的原作参数必须记录为推断/待核对，不得宣称已实现完全 1:1。
+
+- 首个里程碑仅支持中文；所有菜单、HUD、结算、提示与可访问性文案使用中文，保留 DemonStar 原作标志，英文语言包留到后续版本。
